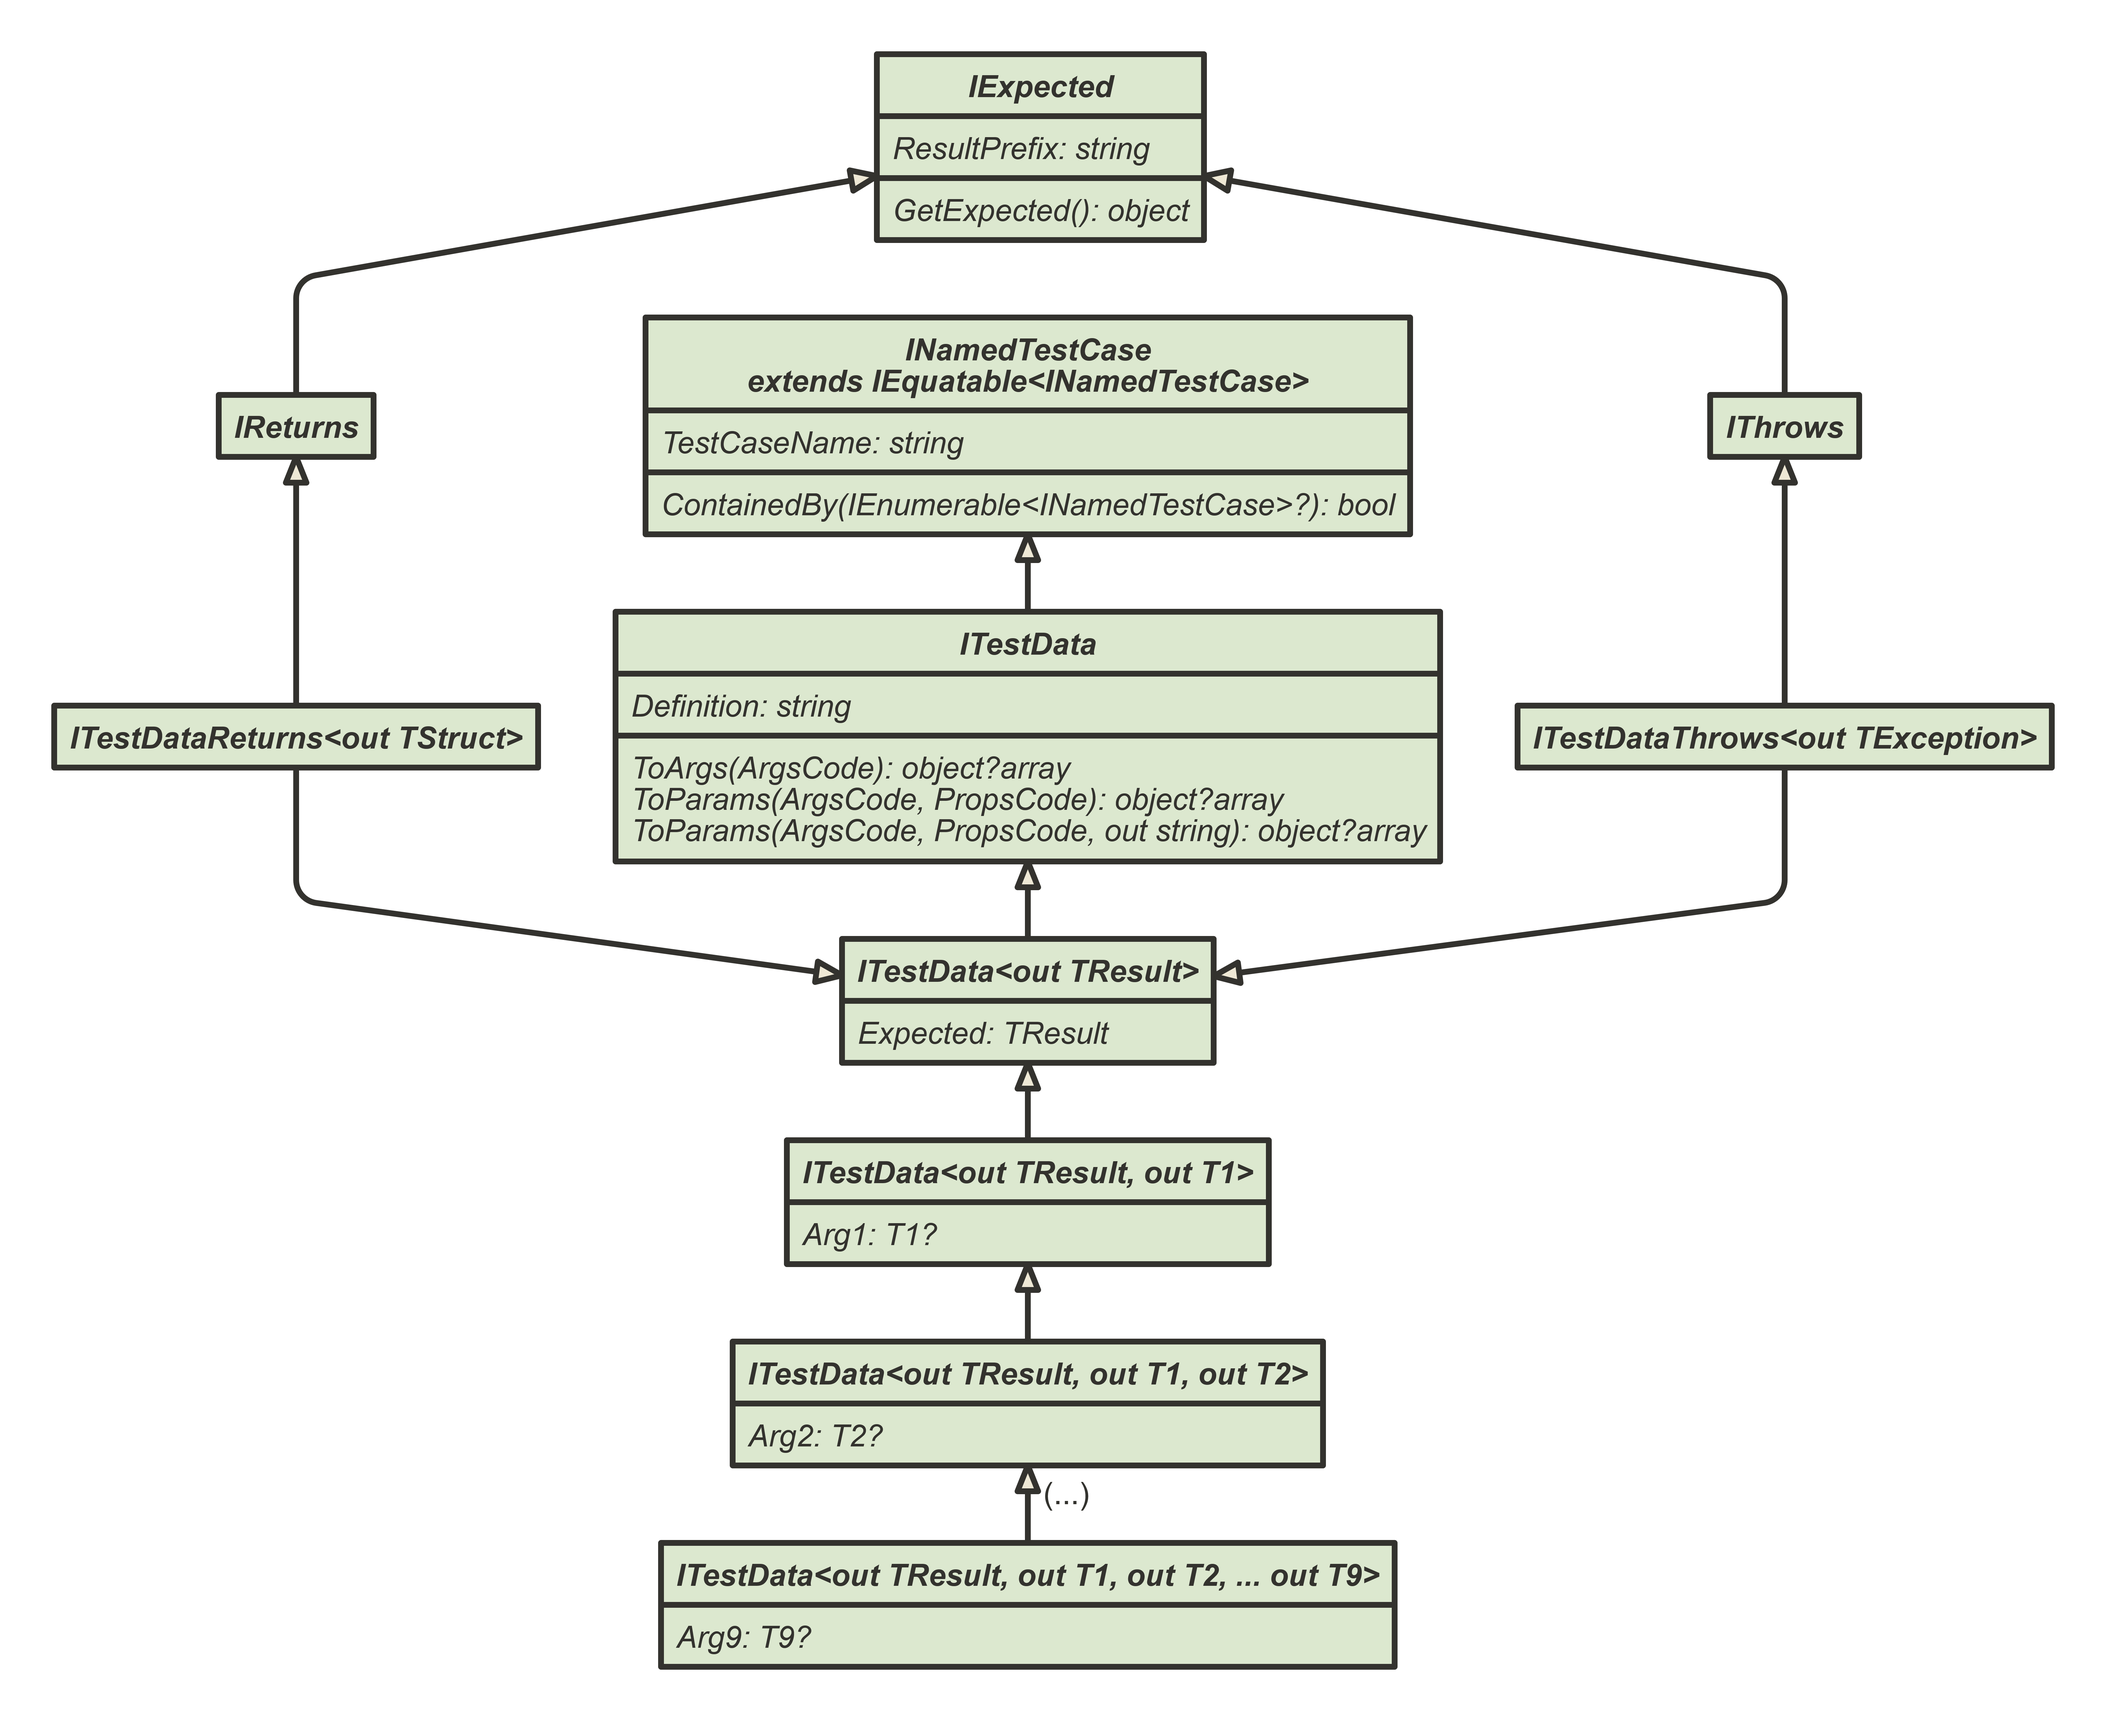
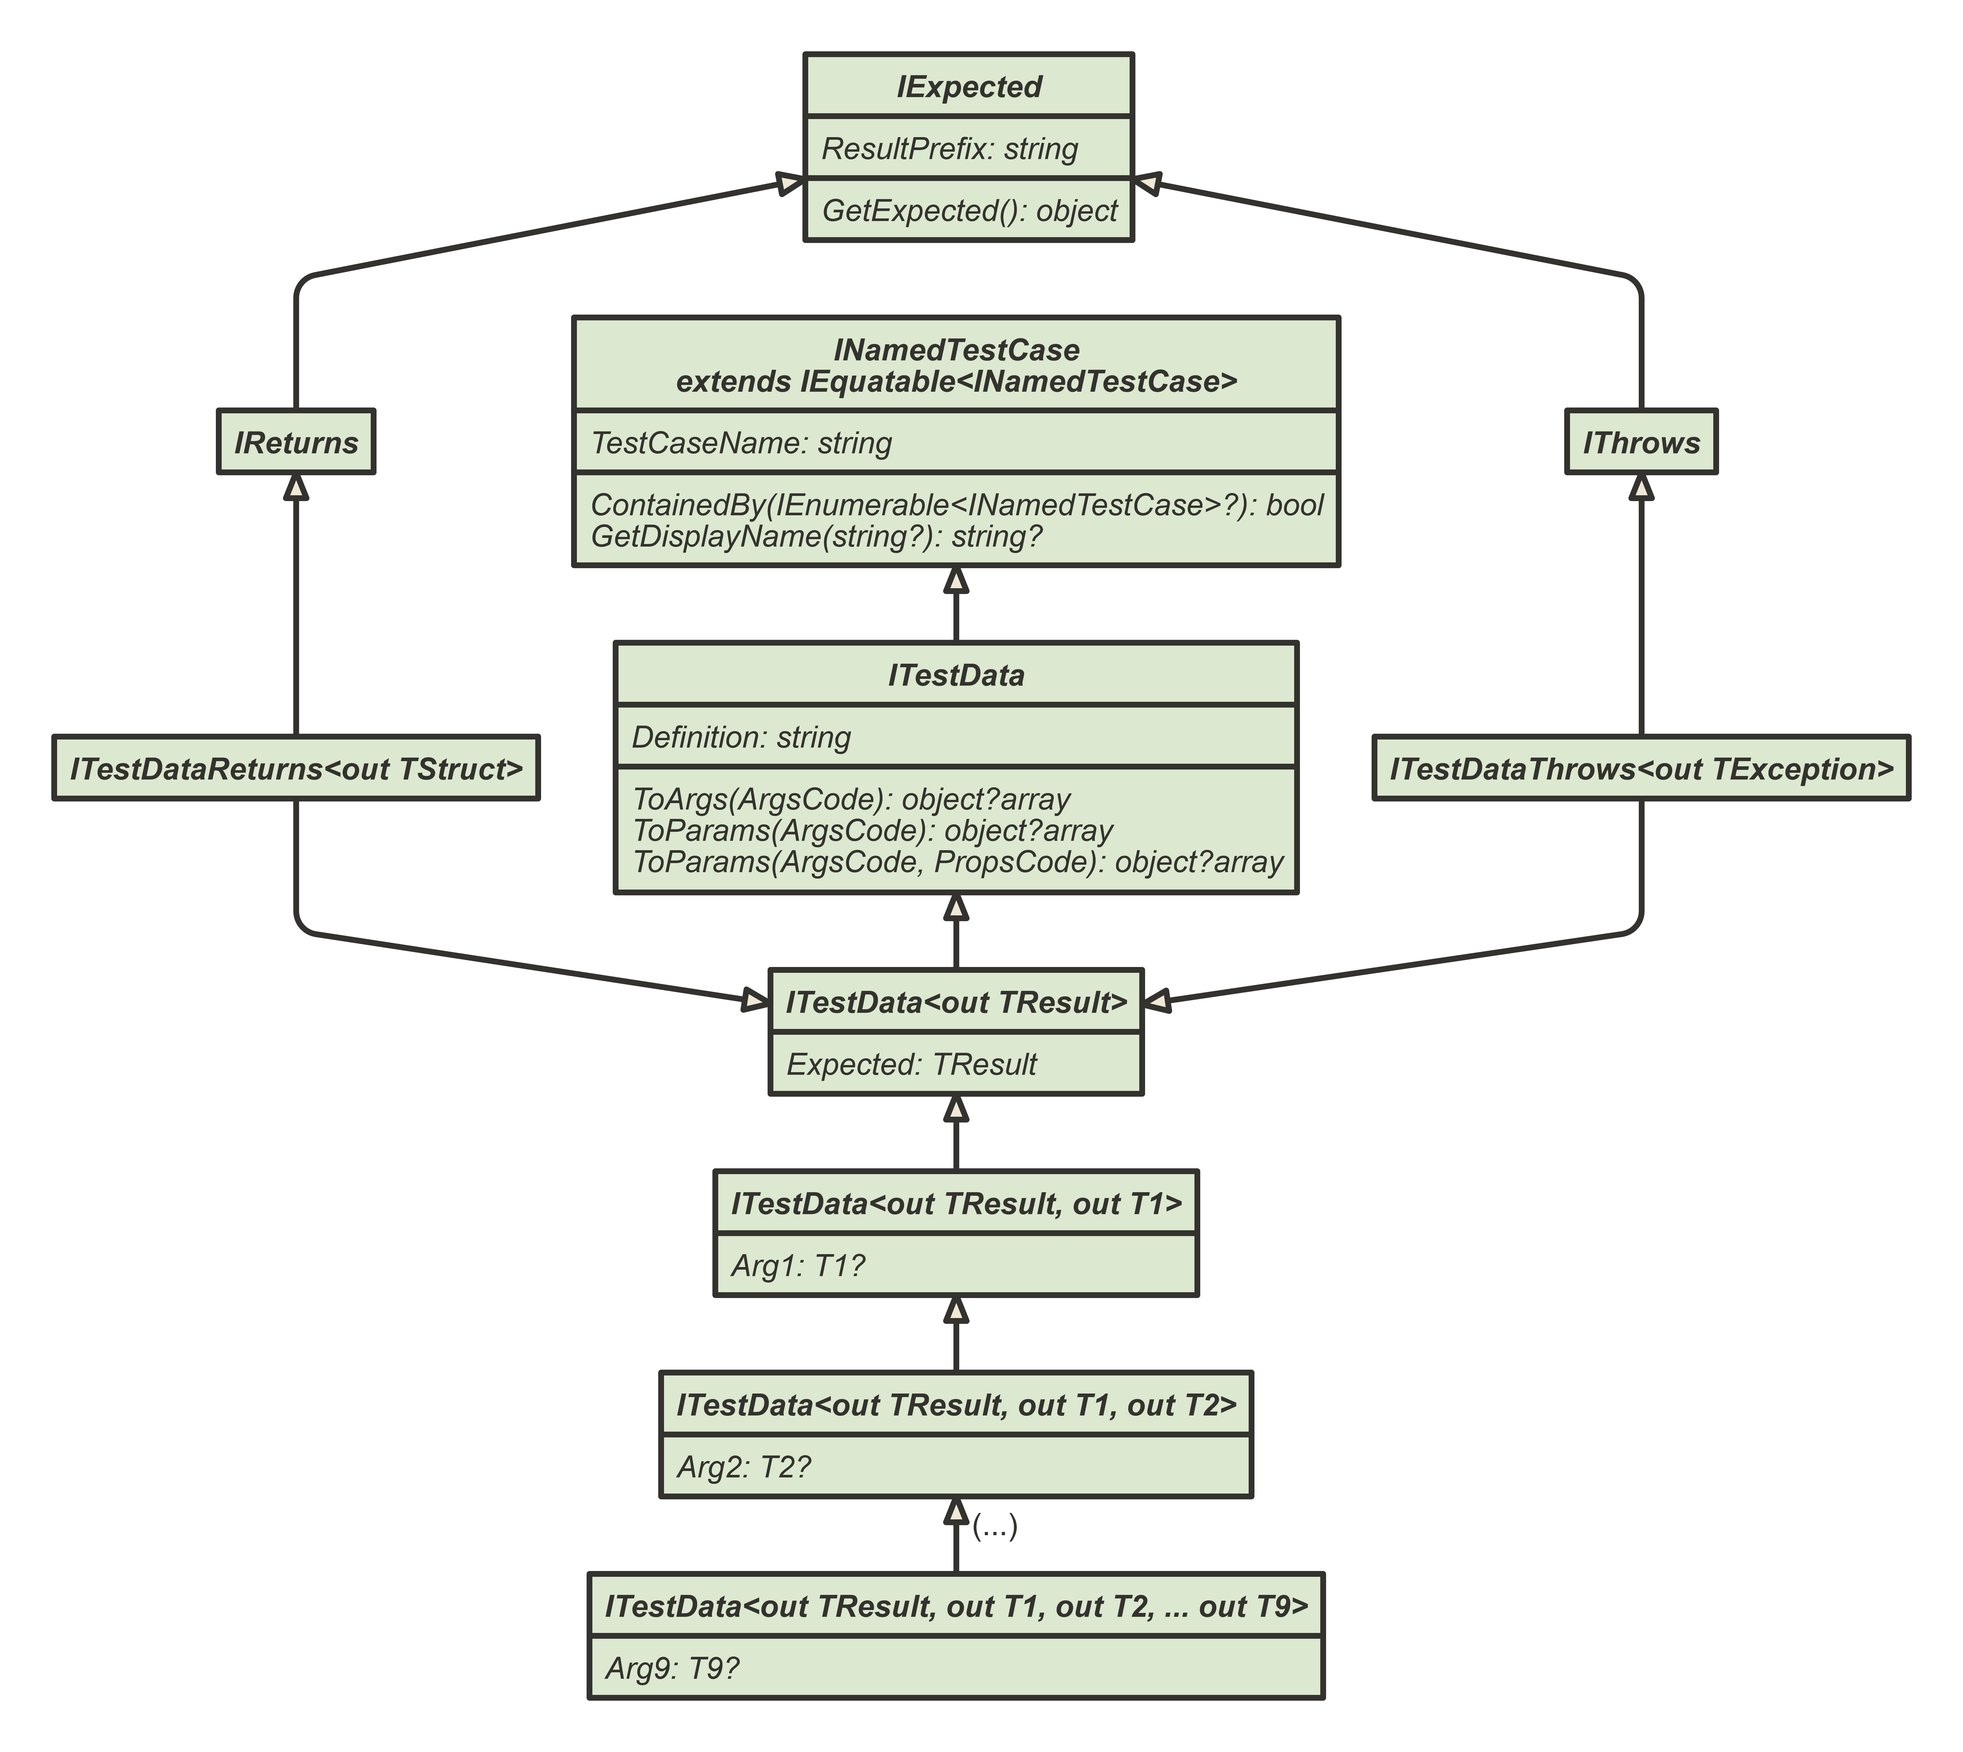
dep. update, dg

diff --git a/TestDataRows/TestDataRow.cs b/TestDataRows/TestDataRow.cs
@@ -35,6 +35,9 @@ public abstract class TestDataRow<TRow> : ITestDataRow<TRow>
     public bool ContainedBy(IEnumerable<INamedTestCase>? namedTestCases)
     => namedTestCases?.Any(Equals) == true;
 
+    public string? GetDisplayName(string? testMethodName)
+    => GetTestData().GetDisplayName(testMethodName);
+
     /// <summary>
     /// Gets the parameter values for this test data row using the given <see cref="IDataStrategy"/> parameter.
     /// </summary>
